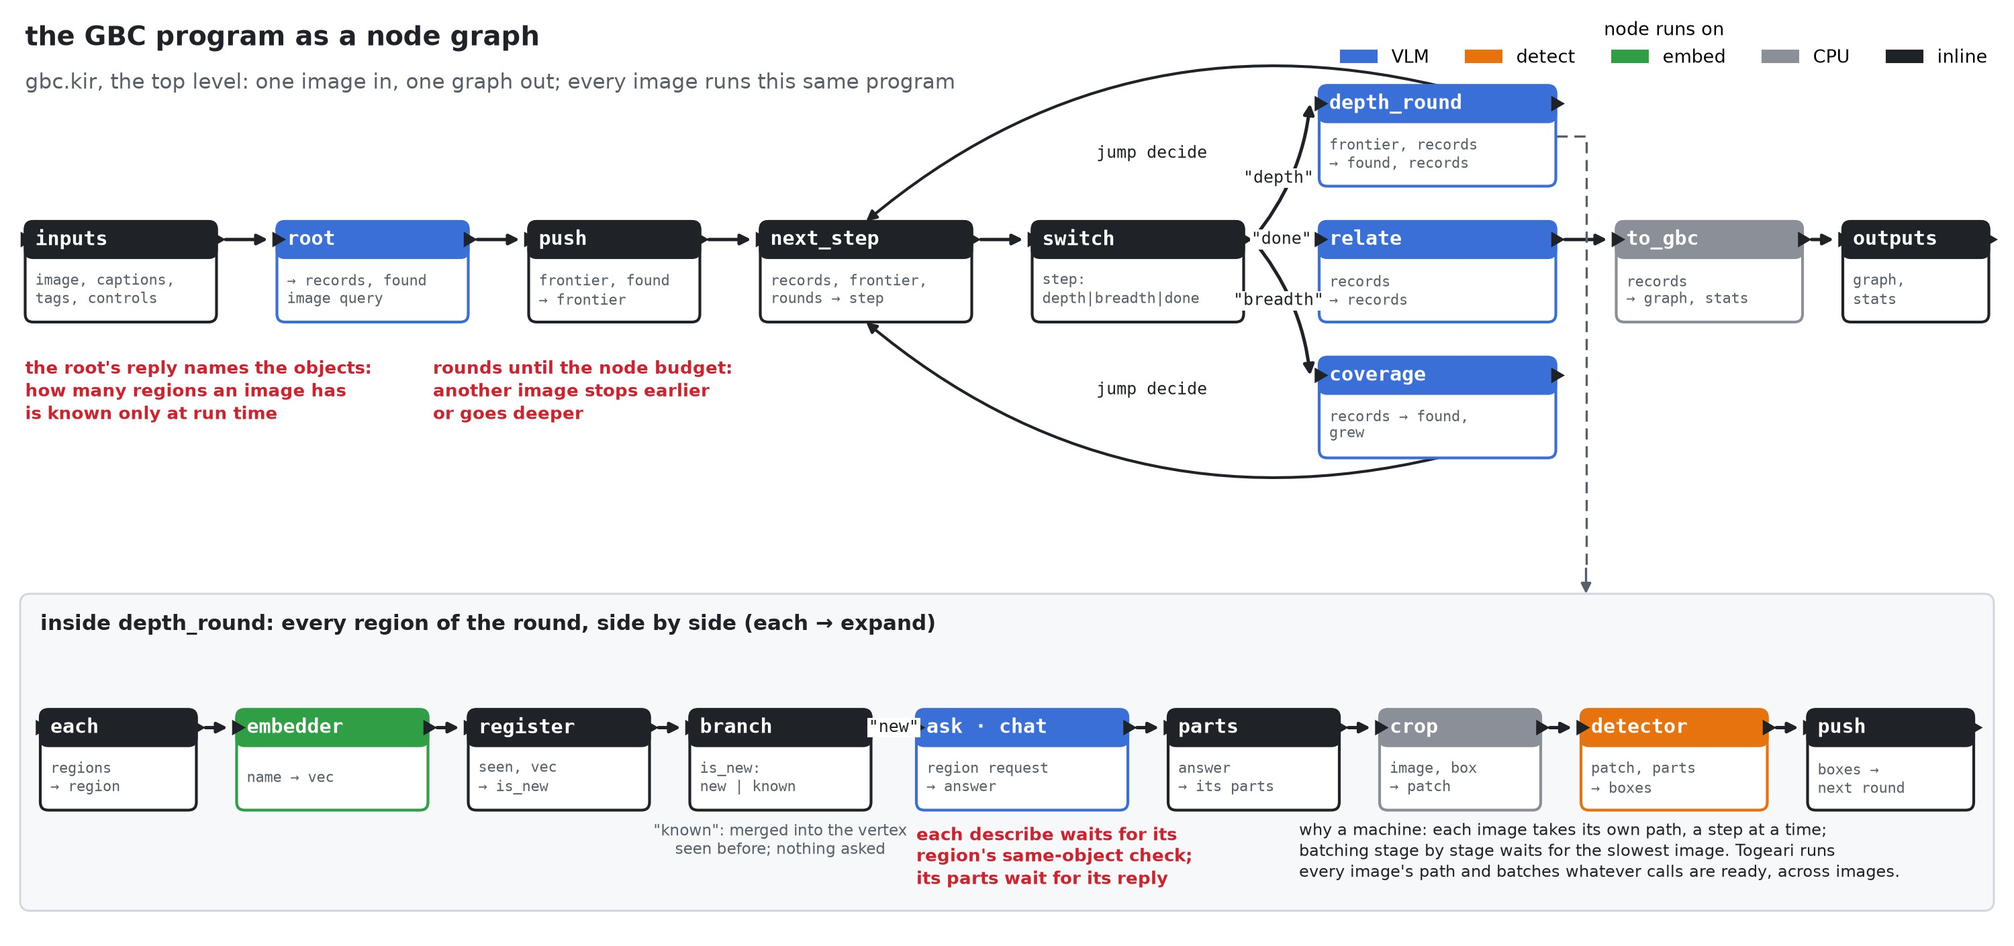
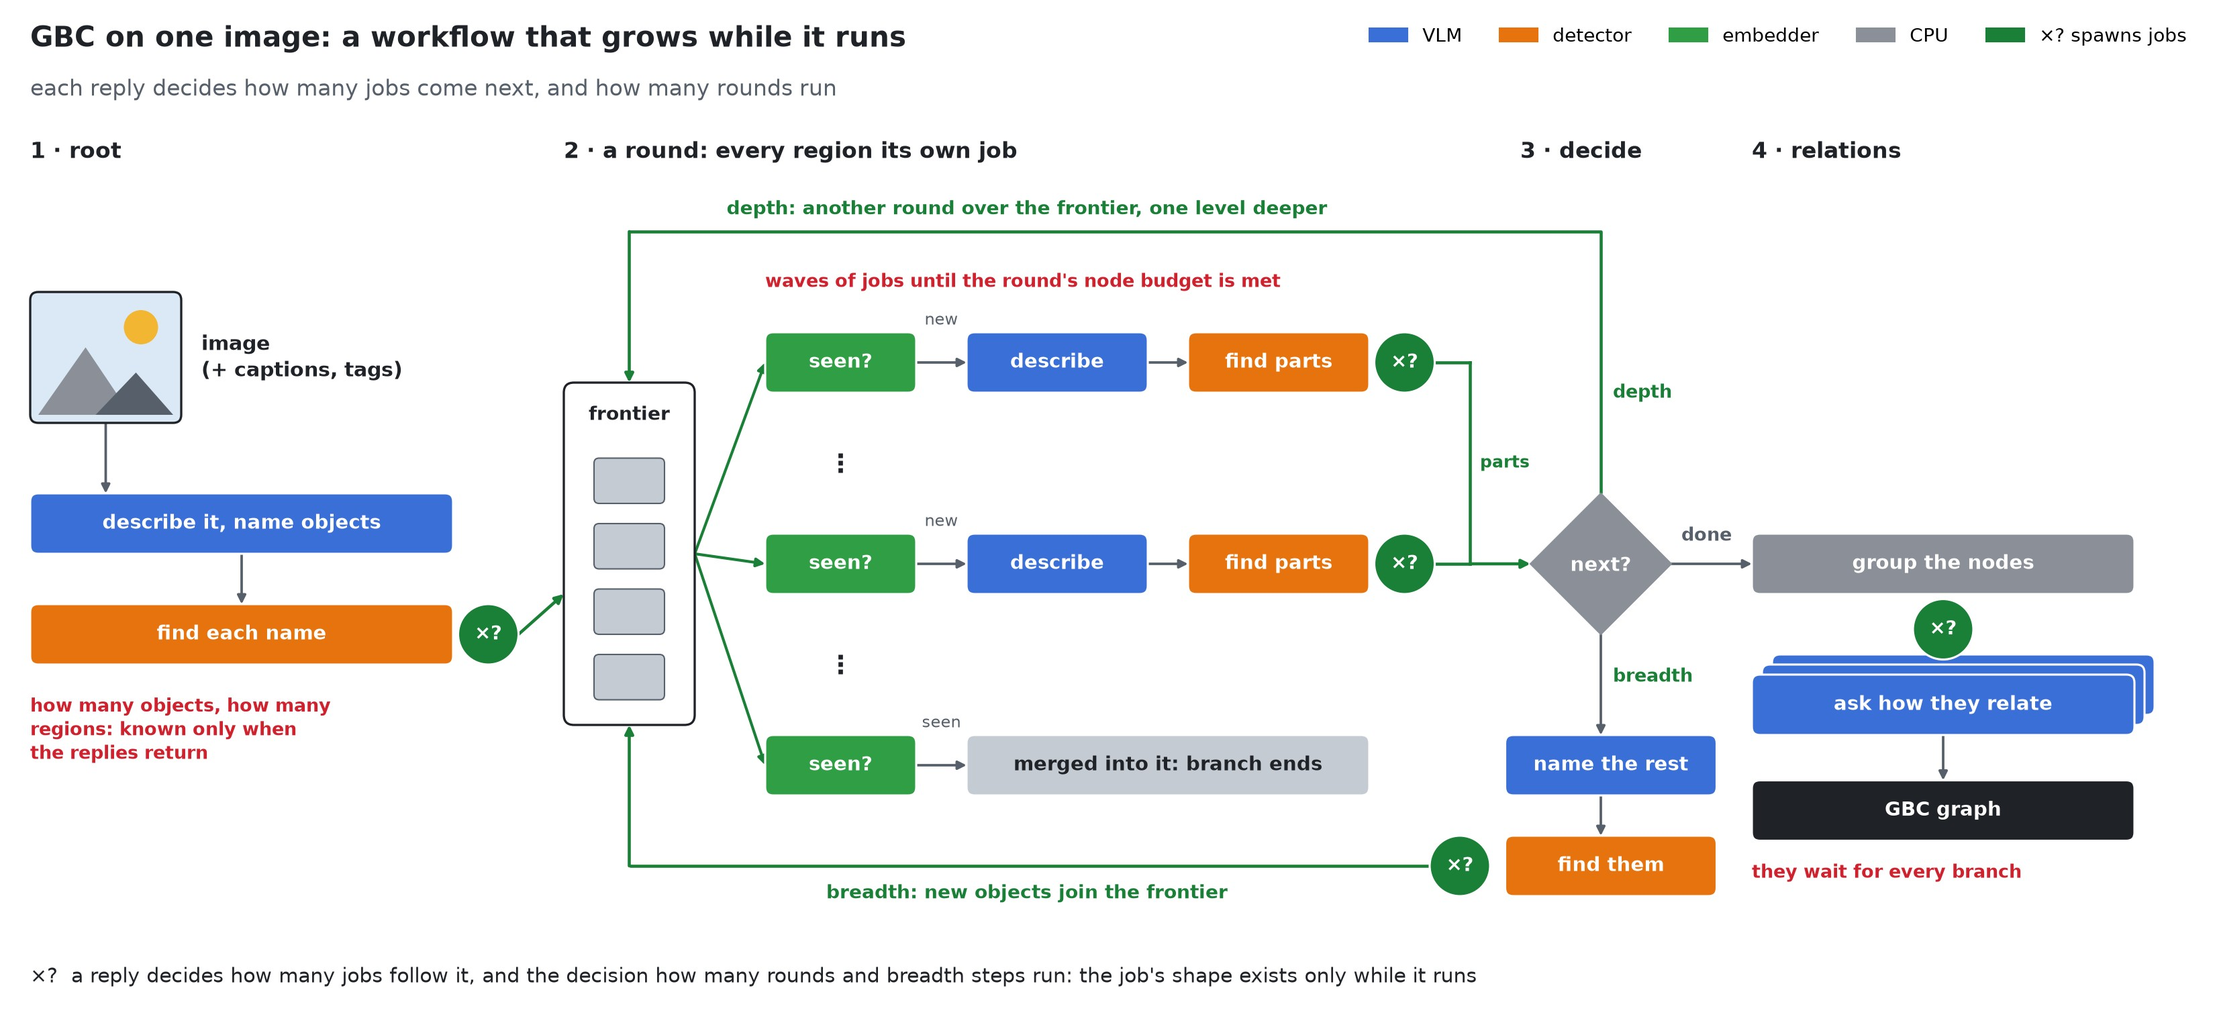
README: the GBC workflow as a conceptual pipeline
Root, frontier, rounds of per-region jobs, the depth/breadth/done decision and
the relations; every step that spawns a reply-decided number of jobs is marked.

diff --git a/scripts/docs/workflow.py b/scripts/docs/workflow.py
@@ -1,9 +1,11 @@
-"""The README's workflow figure: the GBC program as a node graph, and why it needs a machine.
+"""The README's workflow figure: the GBC procedure on one image, as a conceptual pipeline.
 
-Top, the program's top level (``gbc`` in gbc.kir) as nodes and control flow: the root, the
-decision loop (a round of regions, or one more root sentence, until the node budget is met), the
-relational questions, the graph. Bottom, what one round runs per region, side by side. Nodes
-are coloured by the lane they run on; callouts mark where the path depends on a reply.
+The root describes the image and finds what it names; the regions wait in a frontier. A round
+takes the frontier and runs every region as its own job (seen before? describe, find parts); the
+parts join the frontier. A decision then runs another round (depth), asks what the image still
+holds (breadth, new objects join the frontier), or ends; relation questions run over groups of
+nodes, and the graph is resolved. Every step marked ``×?`` spawns a number of jobs its reply
+decides. Each step is coloured by the engine it needs.
 
     python scripts/docs/workflow.py docs/assets/workflow.jpg
 """
@@ -14,168 +16,170 @@ import sys
 import matplotlib.pyplot as plt
 from matplotlib import patches
 
-INK, MUTED, PAPER, CARD, LINE = "#1f2328", "#57606a", "#ffffff", "#f6f8fa", "#d0d7de"
-LANE = {
-    "vlm": ("#3b6fd8", "VLM"),
-    "detect": ("#e6730d", "detect"),
-    "embed": ("#2f9e44", "embed"),
-    "cpu": ("#8a8f98", "CPU"),
-    "inline": ("#1f2328", "inline"),
-}
-CALLOUT = "#cf222e"
+INK, MUTED, PAPER, LINE, SKY = "#1f2328", "#57606a", "#ffffff", "#c4cbd3", "#dbe9f7"
+VLM, DET, EMB, CPU = "#3b6fd8", "#e6730d", "#2f9e44", "#8a8f98"
+SPAWN, CALLOUT = "#1a7f37", "#cf222e"
+H_STEP = 0.6
 
 
-class Fig:
+class Draw:
     def __init__(self, ax, size):
         self.ax, self.s = ax, size
-        self.at: dict[str, tuple[float, float, float, float]] = {}
 
-    def node(self, key, x, y, title, ports, lane, w=2.0, h=1.0):
-        """A node: a title bar in its lane's colour, its name, its ports below."""
-        colour = LANE[lane][0]
-        ax = self.ax
-        style = "round,pad=0,rounding_size=0.08"
-        ax.add_patch(patches.FancyBboxPatch((x, y), w, h, boxstyle=style, facecolor=PAPER,
-                                            edgecolor=colour, lw=2.0, zorder=3))  # fmt: skip
-        bar = patches.FancyBboxPatch((x, y + h - 0.36), w, 0.36, boxstyle=style,
-                                     facecolor=colour, edgecolor=colour, lw=2.0,
-                                     zorder=3)  # fmt: skip
-        ax.add_patch(bar)
-        ax.text(x + 0.1, y + h - 0.18, title, fontsize=self.s - 0.5, color=PAPER,
-                fontweight="bold", va="center", family="monospace", zorder=4)  # fmt: skip
-        ax.text(x + 0.1, y + (h - 0.36) / 2, ports, fontsize=self.s - 4.5, color=MUTED,
-                va="center", family="monospace", zorder=4, linespacing=1.25)  # fmt: skip
-        # Control ports: in on the left, out on the right
-        for px in (x, x + w):
-            port = patches.RegularPolygon((px, y + h - 0.18), 3, radius=0.09,
-                                          orientation=-1.5708, facecolor=INK, zorder=5)  # fmt: skip
-            ax.add_patch(port)
-        self.at[key] = (x, y, w, h)
+    def step(self, x, y, w, text, colour, stack=1, ink=PAPER):
+        """A step: a filled card centred on ``y``; ``stack`` cards for many jobs of it."""
+        for k in range(stack - 1, -1, -1):
+            self.ax.add_patch(patches.FancyBboxPatch(
+                (x + k * 0.1, y - H_STEP / 2 + k * 0.1), w, H_STEP,
+                boxstyle="round,pad=0,rounding_size=0.08", facecolor=colour, edgecolor=PAPER,
+                lw=1.5, zorder=5 - k * 0.1,
+            ))  # fmt: skip
+        self.ax.text(x + w / 2, y, text, fontsize=self.s - 2, color=ink, ha="center",
+                     va="center", fontweight="bold", zorder=7)  # fmt: skip
 
-    def side(self, key, where):
-        x, y, w, h = self.at[key]
-        return {
-            "out": (x + w + 0.09, y + h - 0.18),
-            "in": (x - 0.09, y + h - 0.18),
-            "top": (x + w / 2, y + h),
-            "bottom": (x + w / 2, y),
-            "right": (x + w, y + h / 2),
-            "left": (x, y + h / 2),
-        }[where]
+    def spawn(self, x, y):
+        """The mark of a step whose reply decides how many jobs follow it."""
+        self.ax.add_patch(patches.Circle((x, y), 0.3, facecolor=SPAWN, edgecolor=PAPER, lw=1.5,
+                                         zorder=8))  # fmt: skip
+        self.ax.text(x, y, "×?", fontsize=self.s - 2, color=PAPER, ha="center", va="center",
+                     fontweight="bold", zorder=9)  # fmt: skip
 
-    def flow(self, a, b, rad=0.0, colour=INK, lw=2.4, label=None, label_at=0.5, dashed=False):
-        self.ax.annotate("", xy=b, xytext=a, zorder=2, arrowprops={
-            "arrowstyle": "-|>,head_length=0.6,head_width=0.3", "color": colour, "lw": lw,
-            "connectionstyle": f"arc3,rad={rad}", "shrinkA": 0, "shrinkB": 0,
-            "linestyle": (0, (5, 3)) if dashed else "-",
+    def arrow(self, a, b, colour=MUTED, lw=1.8):
+        self.ax.annotate("", xy=b, xytext=a, zorder=3, arrowprops={
+            "arrowstyle": "-|>,head_length=0.5,head_width=0.25", "color": colour, "lw": lw,
+            "shrinkA": 0, "shrinkB": 0,
         })  # fmt: skip
-        if label:
-            mx = a[0] + (b[0] - a[0]) * label_at
-            my = a[1] + (b[1] - a[1]) * label_at
-            self.ax.text(mx, my, label, fontsize=self.s - 3, color=colour, ha="center",
-                         va="center", zorder=6, family="monospace",
-                         bbox={"facecolor": PAPER, "edgecolor": "none", "pad": 1.0})  # fmt: skip
 
-    def note(self, x, y, text, colour=CALLOUT, ha="left"):
-        self.ax.text(x, y, text, fontsize=self.s - 2.5, color=colour, ha=ha, va="top",
-                     zorder=6, linespacing=1.3, fontweight="bold")  # fmt: skip
+    def path(self, points, colour=SPAWN, lw=2.2):
+        """An orthogonal path through ``points``, its arrowhead on the last one."""
+        xs, ys = zip(*points[:-1])
+        self.ax.plot(xs, ys, color=colour, lw=lw, zorder=3, solid_capstyle="butt")
+        self.arrow(points[-2], points[-1], colour, lw)
+
+    def label(self, x, y, text, colour=MUTED, ha="left", va="center", size=-3, bold=False):
+        self.ax.text(x, y, text, fontsize=self.s + size, color=colour, ha=ha, va=va, zorder=9,
+                     linespacing=1.3, fontweight="bold" if bold else "normal")  # fmt: skip
 
 
 def main() -> int:
     parser = argparse.ArgumentParser(description=__doc__)
     parser.add_argument("out")
-    parser.add_argument("--font", type=float, default=15.0)
+    parser.add_argument("--font", type=float, default=16.0)
     parser.add_argument("--dpi", type=int, default=150)
     args = parser.parse_args()
     s = args.font
 
-    fig = plt.figure(figsize=(20, 9.4), facecolor=PAPER)
+    W, H = 22.0, 10.2
+    fig = plt.figure(figsize=(W, H), facecolor=PAPER)
     ax = fig.add_axes([0, 0, 1, 1])
-    ax.set_xlim(0, 20)
-    ax.set_ylim(0, 9.4)
+    ax.set_xlim(0, W)
+    ax.set_ylim(0, H)
     ax.axis("off")
-    f = Fig(ax, s)
+    d = Draw(ax, s)
 
-    ax.text(0.25, 9.15, "the GBC program as a node graph", fontsize=s + 4, fontweight="bold",
-            color=INK, va="top")  # fmt: skip
-    ax.text(0.25, 8.68, "gbc.kir, the top level: one image in, one graph out; every image runs "
-            "this same program", fontsize=s, color=MUTED, va="top")  # fmt: skip
+    ax.text(0.3, H - 0.25, "GBC on one image: a workflow that grows while it runs",
+            fontsize=s + 4, fontweight="bold", color=INK, va="top")  # fmt: skip
+    ax.text(0.3, H - 0.78, "each reply decides how many jobs come next, and how many rounds run",
+            fontsize=s, color=MUTED, va="top")  # fmt: skip
+    legend = [patches.Patch(color=c, label=n) for c, n in
+              ((VLM, "VLM"), (DET, "detector"), (EMB, "embedder"), (CPU, "CPU"),
+               (SPAWN, "×? spawns jobs"))]  # fmt: skip
+    ax.legend(handles=legend, loc="upper right", bbox_to_anchor=(0.995, 0.99), ncol=5,
+              frameon=False, fontsize=s - 2.5)  # fmt: skip
+    for x, title in ((0.3, "1 · root"), (5.6, "2 · a round: every region its own job"),
+                     (15.1, "3 · decide"), (17.4, "4 · relations")):  # fmt: skip
+        ax.text(x, H - 1.4, title, fontsize=s, color=INK, fontweight="bold", va="top")
 
-    # ---- the top level -------------------------------------------------------------------------
-    y = 6.2
-    f.node("in", 0.25, y, "inputs", "image, captions,\ntags, controls", "inline", w=1.9)
-    f.node("root", 2.75, y, "root", "→ records, found\nimage query", "vlm", w=1.9)
-    f.node("push", 5.25, y, "push", "frontier, found\n→ frontier", "inline", w=1.7)
-    f.node("next", 7.55, y, "next_step", "records, frontier,\nrounds → step", "inline", w=2.1)
-    f.node("switch", 10.25, y, "switch", "step:\ndepth|breadth|done", "inline", w=2.1)
-    f.node("depth", 13.1, 7.55, "depth_round", "frontier, records\n→ found, records", "vlm",
-           w=2.35)  # fmt: skip
-    f.node("cover", 13.1, 4.85, "coverage", "records → found,\ngrew", "vlm", w=2.35)
-    f.node("relate", 13.1, y, "relate", "records\n→ records", "vlm", w=2.35)
-    f.node("gbc", 16.05, y, "to_gbc", "records\n→ graph, stats", "cpu", w=1.85)
-    f.node("out", 18.3, y, "outputs", "graph,\nstats", "inline", w=1.45)
+    # ---- 1 · root: describe the image, find what it names --------------------------------------
+    ax.add_patch(patches.FancyBboxPatch((0.3, 6.0), 1.5, 1.3, boxstyle="round,pad=0,"
+                                        "rounding_size=0.08", facecolor=SKY, edgecolor=INK,
+                                        lw=1.6, zorder=4))  # fmt: skip
+    ax.add_patch(patches.Circle((1.4, 6.95), 0.17, facecolor="#f2b632", zorder=5))
+    ax.add_patch(patches.Polygon([(0.38, 6.08), (0.85, 6.75), (1.3, 6.08)], facecolor=CPU,
+                                 zorder=5))  # fmt: skip
+    ax.add_patch(patches.Polygon([(0.95, 6.08), (1.35, 6.5), (1.72, 6.08)], facecolor=MUTED,
+                                 zorder=5))  # fmt: skip
+    d.label(2.0, 6.65, "image\n(+ captions, tags)", INK, size=-1.5, bold=True)
+    d.step(0.3, 5.0, 4.2, "describe it, name objects", VLM)
+    d.step(0.3, 3.9, 4.2, "find each name", DET)
+    d.arrow((1.05, 6.0), (1.05, 5.3))
+    d.arrow((2.4, 4.7), (2.4, 4.2))
+    d.spawn(4.85, 3.9)
+    d.label(0.3, 3.3, "how many objects, how many\nregions: known only when\nthe replies "
+            "return", CALLOUT, va="top", bold=True)  # fmt: skip
 
-    f.flow(f.side("in", "out"), f.side("root", "in"))
-    f.flow(f.side("root", "out"), f.side("push", "in"))
-    f.flow(f.side("push", "out"), f.side("next", "in"))
-    f.flow(f.side("next", "out"), f.side("switch", "in"))
-    f.flow(f.side("switch", "out"), f.side("depth", "in"), rad=0.15, label='"depth"', label_at=0.45)
-    f.flow(f.side("switch", "out"), f.side("cover", "in"), rad=-0.15, label='"breadth"',
-           label_at=0.45)  # fmt: skip
-    f.flow(f.side("switch", "out"), f.side("relate", "in"), label='"done"', label_at=0.5)
-    f.flow(f.side("relate", "out"), f.side("gbc", "in"))
-    f.flow(f.side("gbc", "out"), f.side("out", "in"))
-    # The loop: each round goes back to the decision
-    f.flow(f.side("depth", "top"), f.side("next", "top"), rad=0.25, colour=INK, lw=2.0,
-           label="jump decide", label_at=0.5)  # fmt: skip
-    f.flow(f.side("cover", "bottom"), f.side("next", "bottom"), rad=-0.25, colour=INK, lw=2.0,
-           label="jump decide", label_at=0.5)  # fmt: skip
+    # ---- the frontier: regions waiting for a round ---------------------------------------------
+    fx, fy0, fy1 = 5.6, 3.0, 6.4
+    ax.add_patch(patches.FancyBboxPatch((fx, fy0), 1.3, fy1 - fy0, boxstyle="round,pad=0,"
+                                        "rounding_size=0.1", facecolor=PAPER, edgecolor=INK,
+                                        lw=1.6, zorder=4))  # fmt: skip
+    d.label(fx + 0.65, fy1 - 0.3, "frontier", INK, ha="center", size=-2.5, bold=True)
+    for k in range(4):
+        ax.add_patch(patches.FancyBboxPatch((fx + 0.3, fy0 + 0.25 + k * 0.65), 0.7, 0.45,
+                                            boxstyle="round,pad=0,rounding_size=0.05",
+                                            facecolor=LINE, edgecolor=MUTED, lw=1.0,
+                                            zorder=5))  # fmt: skip
+    d.arrow((5.15, 3.9), (fx, 4.3), SPAWN, 2.2)
 
-    f.note(0.25, 5.85, "the root's reply names the objects:\nhow many regions an image has\n"
-           "is known only at run time")  # fmt: skip
-    f.note(4.3, 5.85, "rounds until the node budget:\nanother image stops earlier\nor goes "
-           "deeper")  # fmt: skip
+    # ---- 2 · a round: each region a job, side by side ------------------------------------------
+    lanes = (6.6, 4.6, 2.6)
+    for y in lanes:
+        d.arrow((fx + 1.3, 4.7), (7.6, y), SPAWN, 2.0)
+        d.step(7.6, y, 1.5, "seen?", EMB)
+    for y in (5.6, 3.6):
+        d.label(8.35, y, "⋮", INK, ha="center", size=2, bold=True)
+    for y in lanes[:2]:
+        d.arrow((9.1, y), (9.6, y))
+        d.label(9.35, y + 0.42, "new", MUTED, ha="center", size=-4.5)
+        d.step(9.6, y, 1.8, "describe", VLM)
+        d.arrow((11.4, y), (11.8, y))
+        d.step(11.8, y, 1.8, "find parts", DET)
+        d.spawn(13.95, y)
+    d.arrow((9.1, 2.6), (9.6, 2.6))
+    d.label(9.35, 3.02, "seen", MUTED, ha="center", size=-4.5)
+    d.step(9.6, 2.6, 4.0, "merged into it: branch ends", LINE, ink=INK)
+    d.label(7.6, 7.4, "waves of jobs until the round's node budget is met", CALLOUT, bold=True)
 
-    # ---- one round, per region ------------------------------------------------------------------
-    by = 0.35
-    panel = patches.FancyBboxPatch((0.2, by), 19.6, 3.15, boxstyle="round,pad=0,rounding_size=0.1",
-                                   facecolor=CARD, edgecolor=LINE, lw=1.4, zorder=0)  # fmt: skip
-    ax.add_patch(panel)
-    ax.text(0.4, by + 2.95, "inside depth_round: every region of the round, side by side "
-            "(each → expand)", fontsize=s, fontweight="bold", color=INK, va="top")  # fmt: skip
-    # depth_round opens into the panel below: down the gap between relate and to_gbc
-    dx, dy = f.side("depth", "right")
-    ax.plot([dx, 15.75, 15.75], [dy, dy, by + 3.4], color=MUTED, lw=1.6, ls=(0, (5, 3)),
-            zorder=2)  # fmt: skip
-    f.flow((15.75, by + 3.4), (15.75, by + 3.15), colour=MUTED, lw=1.6)
-    ry = by + 1.0
-    f.node("each", 0.4, ry, "each", "regions\n→ region", "inline", w=1.55)
-    f.node("emb", 2.35, ry, "embedder", "name → vec", "embed", w=1.9)
-    f.node("reg", 4.65, ry, "register", "seen, vec\n→ is_new", "inline", w=1.8)
-    f.node("br", 6.85, ry, "branch", "is_new:\nnew | known", "inline", w=1.8)
-    f.node("ask", 9.1, ry, "ask · chat", "region request\n→ answer", "vlm", w=2.1)
-    f.node("parts", 11.6, ry, "parts", "answer\n→ its parts", "inline", w=1.7)
-    f.node("crop", 13.7, ry, "crop", "image, box\n→ patch", "cpu", w=1.6)
-    f.node("det", 15.7, ry, "detector", "patch, parts\n→ boxes", "detect", w=1.85)
-    f.node("push2", 17.95, ry, "push", "boxes →\nnext round", "inline", w=1.65)
-    for a, b in (("each", "emb"), ("emb", "reg"), ("reg", "br"), ("ask", "parts"),
-                 ("parts", "crop"), ("crop", "det"), ("det", "push2")):  # fmt: skip
-        f.flow(f.side(a, "out"), f.side(b, "in"))
-    f.flow(f.side("br", "out"), f.side("ask", "in"), label='"new"', label_at=0.5)
-    ax.text(7.75, ry - 0.12, '"known": merged into the vertex\nseen before; nothing asked',
-            fontsize=s - 4, color=MUTED, ha="center", va="top")  # fmt: skip
-    f.note(9.1, ry - 0.12, "each describe waits for its\nregion's same-object check;\nits "
-           "parts wait for its reply")  # fmt: skip
+    # Parts go back to the frontier through the decision
+    ax.plot([14.25, 14.6], [6.6, 6.6], color=SPAWN, lw=2.2, zorder=3)
+    ax.plot([14.25, 14.6], [4.6, 4.6], color=SPAWN, lw=2.2, zorder=3)
+    ax.plot([14.6, 14.6], [6.6, 4.6], color=SPAWN, lw=2.2, zorder=3)
+    dx, dy, r = 15.9, 4.6, 0.7
+    d.arrow((14.6, 4.6), (dx - r, dy), SPAWN, 2.2)
+    d.label(14.7, 5.6, "parts", SPAWN, size=-4, bold=True)
 
-    ax.text(12.9, ry - 0.1, "why a machine: each image takes its own path, a step at a time;\n"
-            "batching stage by stage waits for the slowest image. Togeari runs\nevery image's "
-            "path and batches whatever calls are ready, across images.", fontsize=s - 3.5,
-            color=INK, va="top", linespacing=1.3, zorder=6)  # fmt: skip
+    # ---- 3 · decide: another round, more objects, or done --------------------------------------
+    ax.add_patch(patches.Polygon([(dx - r, dy), (dx, dy + r), (dx + r, dy), (dx, dy - r)],
+                                 facecolor=CPU, edgecolor=CPU, zorder=5))  # fmt: skip
+    d.label(dx, dy, "next?", PAPER, ha="center", size=-2, bold=True)
+    d.path([(dx, dy + r), (dx, 7.9), (fx + 0.65, 7.9), (fx + 0.65, fy1)])
+    d.label(dx + 0.12, 6.3, "depth", SPAWN, size=-3, bold=True)
+    d.label(10.2, 8.0, "depth: another round over the frontier, one level deeper", SPAWN,
+            ha="center", va="bottom", size=-2.5, bold=True)  # fmt: skip
 
-    handles = [patches.Patch(color=c, label=n) for c, n in LANE.values()]
-    ax.legend(handles=handles, loc="upper right", bbox_to_anchor=(0.995, 0.995), ncol=5,
-              frameon=False, fontsize=s - 2, title="node runs on",
-              title_fontsize=s - 2)  # fmt: skip
+    d.arrow((dx, dy - r), (dx, 2.9))
+    d.label(dx + 0.12, 3.5, "breadth", SPAWN, size=-3, bold=True)
+    d.step(14.95, 2.6, 2.1, "name the rest", VLM)
+    d.arrow((dx, 2.3), (dx, 1.9))
+    d.step(14.95, 1.6, 2.1, "find them", DET)
+    d.spawn(14.5, 1.6)
+    d.path([(14.2, 1.6), (fx + 0.65, 1.6), (fx + 0.65, fy0)])
+    d.label(10.2, 1.45, "breadth: new objects join the frontier", SPAWN, ha="center", va="top",
+            size=-2.5, bold=True)  # fmt: skip
+
+    # ---- 4 · relations over groups of the nodes found ------------------------------------------
+    d.arrow((dx + r, dy), (17.4, dy))
+    d.label(dx + r + 0.1, dy + 0.3, "done", MUTED, size=-3, bold=True)
+    d.step(17.4, 4.6, 3.8, "group the nodes", CPU)
+    d.spawn(19.3, 3.95)
+    d.step(17.4, 3.2, 3.8, "ask how they relate", VLM, stack=3)
+    d.arrow((19.3, 2.9), (19.3, 2.45))
+    d.step(17.4, 2.15, 3.8, "GBC graph", INK)
+    d.label(17.4, 1.65, "they wait for every branch", CALLOUT, va="top", bold=True)
+
+    d.label(0.3, 0.5, "×?  a reply decides how many jobs follow it, and the decision how many "
+            "rounds and breadth steps run: the job's shape exists only while it runs", INK,
+            size=-1.5)  # fmt: skip
     fig.savefig(args.out, dpi=args.dpi, facecolor=PAPER, pil_kwargs={"quality": 90})
     print(args.out)
     return 0

diff --git a/README.md b/README.md
@@ -153,14 +153,17 @@ edge, its label is a phrase of the parent's caption, and the child's box lies in
 
 ### The program: one image job
 
-![The GBC program as a node graph: the root, the decision loop of rounds and coverage, the relational questions, the graph; and what a round runs per region](docs/assets/workflow.jpg)
+![GBC on one image: the root names objects and finds them; their regions wait in a frontier; a round runs every region as its own job (seen before? describe, find parts) and the parts join the frontier; a decision runs another round, asks for objects not covered yet, or ends; relation questions run over groups of nodes; the graph](docs/assets/workflow.jpg)
 
-Every image runs this one program, but each takes its own path through it: the root's reply
-decides how many regions there are, a region already seen is merged instead of described, and
-rounds go on until the node budget is met. Every step waits for the reply before it, so the work
-cannot be batched stage by stage across images without waiting for the slowest one; the machine
-instead runs each image's path and batches whatever calls are ready
-(`scripts/docs/workflow.py`).
+The root describes the image and finds the objects it names; a round runs every waiting region
+as its own job (seen before? describe it, find its parts), and the parts it finds wait for the
+next round. A decision then runs another round one level deeper, asks the VLM what the image
+still holds and adds those objects, or ends with the relation questions. Every step marked ×?
+spawns as many jobs as its reply names, and the decision how many rounds run, so each image
+grows its own workflow while it runs: from 3 VLM requests on one image to more than 30 on
+another. That work cannot be batched stage by stage across images without waiting for the
+slowest one; the machine instead runs every job as soon as its inputs exist and batches whatever
+calls are ready, across images (`scripts/docs/workflow.py`).
 
 `gbc.kir` is a plain sequential program; this is its top level:
 
